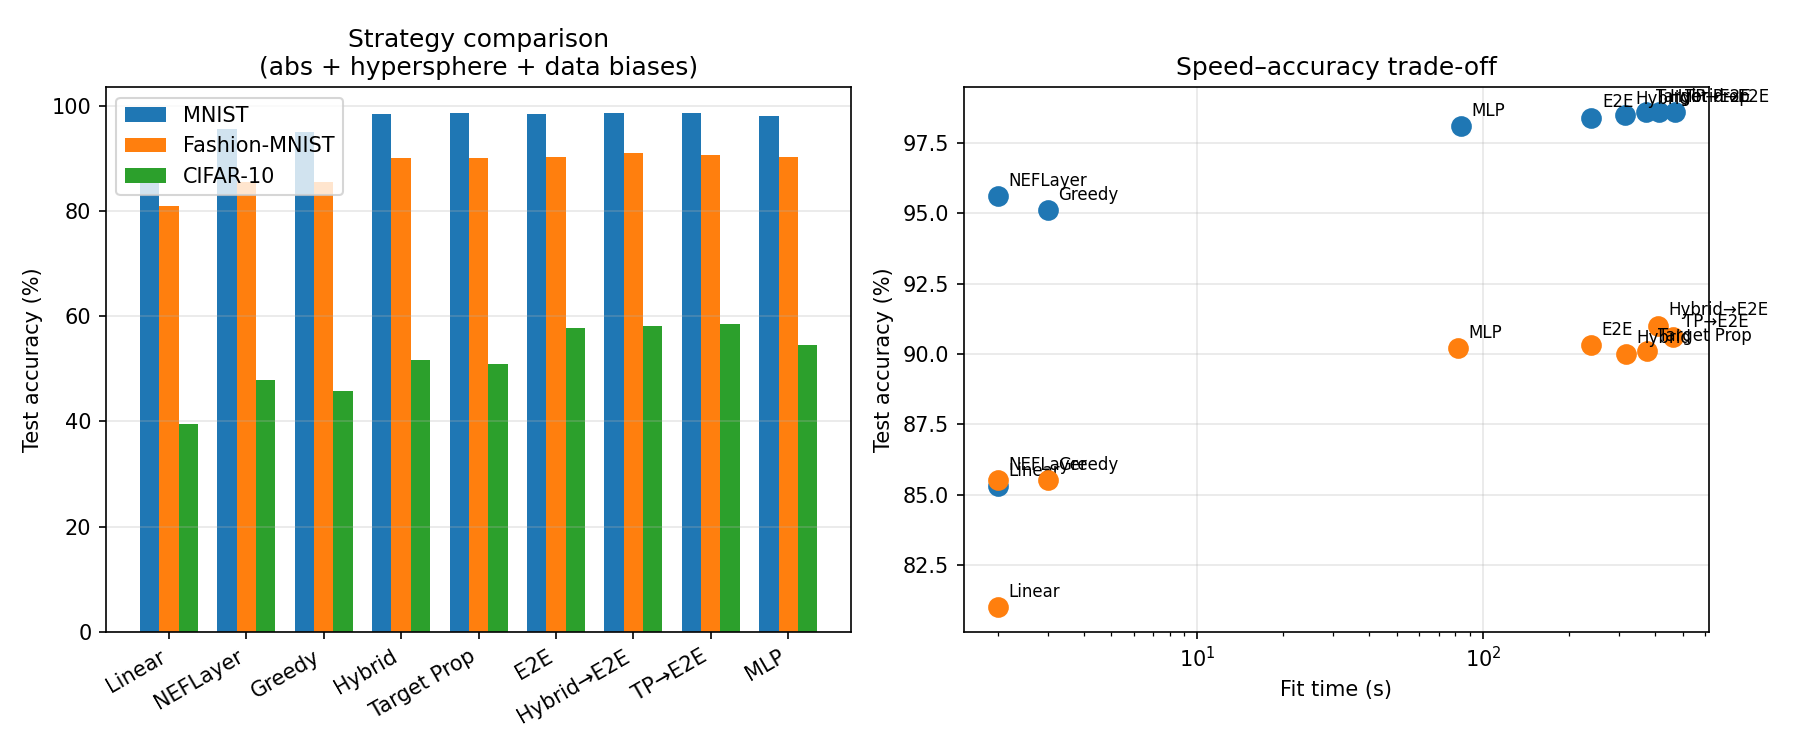
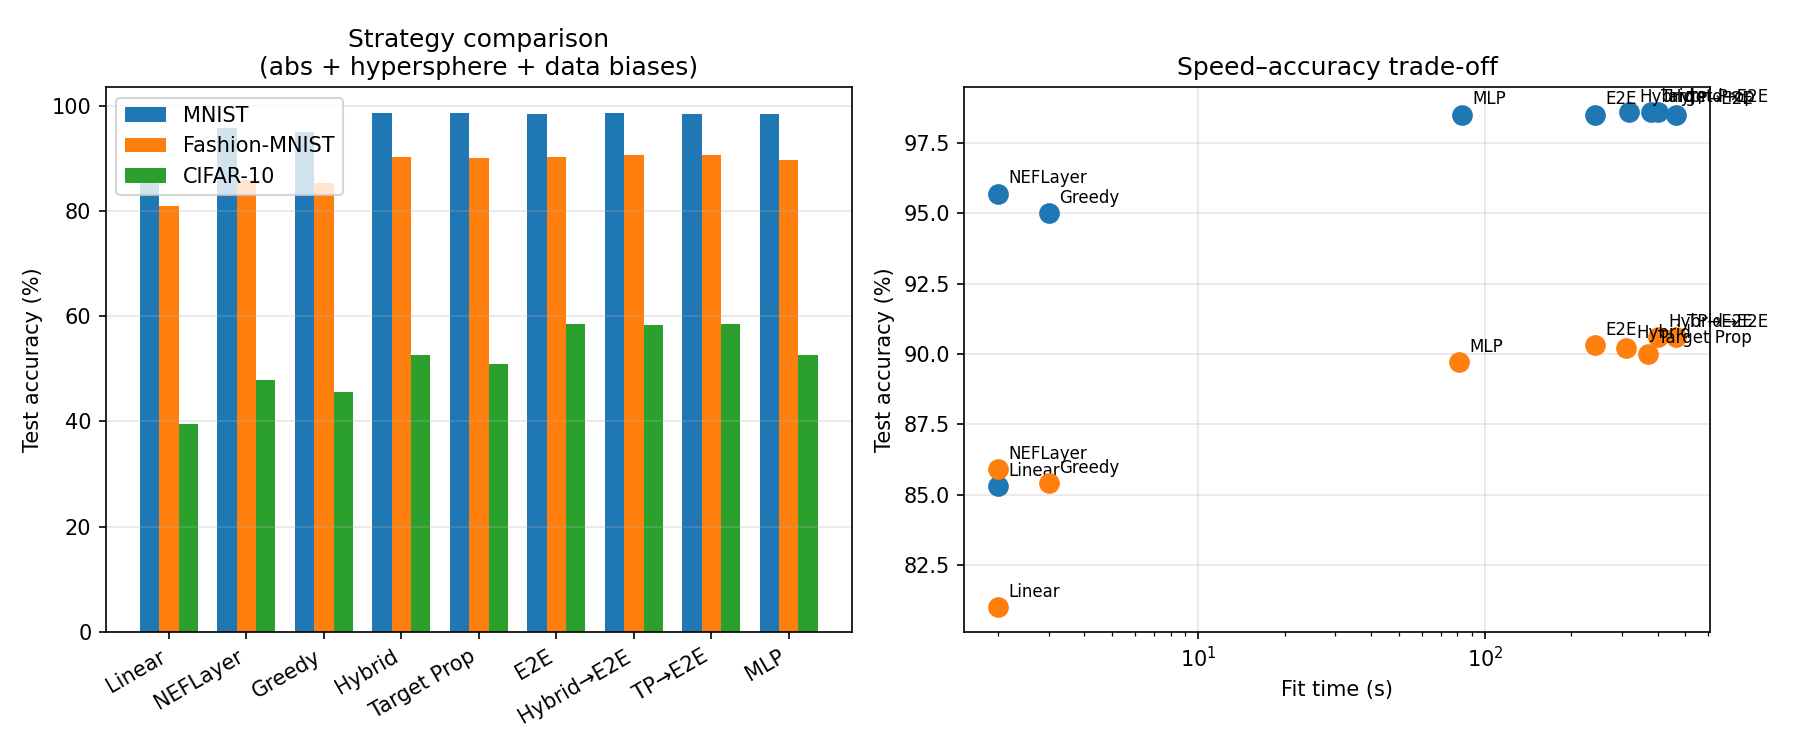
Refresh seeded feed-forward benchmarks

diff --git a/benchmarks/plot.py b/benchmarks/plot.py
@@ -45,14 +45,14 @@ STRATEGIES = [
     "MLP",
 ]
 MULTI = {
-    "MNIST": [85.3, 95.6, 95.1, 98.5, 98.6, 98.4, 98.6, 98.6, 98.1],
-    "Fashion-MNIST": [81.0, 85.5, 85.5, 90.0, 90.1, 90.3, 91.0, 90.6, 90.2],
-    "CIFAR-10": [39.6, 47.8, 45.8, 51.7, 51.0, 57.8, 58.1, 58.5, 54.6],
+    "MNIST": [85.3, 95.7, 95.0, 98.6, 98.6, 98.5, 98.6, 98.5, 98.5],
+    "Fashion-MNIST": [81.0, 85.9, 85.4, 90.2, 90.0, 90.3, 90.6, 90.6, 89.7],
+    "CIFAR-10": [39.6, 47.8, 45.6, 52.7, 51.0, 58.5, 58.4, 58.5, 52.7],
 }
 MULTI_TIME = {
-    "MNIST": [2, 2, 3, 315, 371, 240, 412, 470, 84],
-    "Fashion-MNIST": [2, 2, 3, 316, 376, 239, 410, 463, 82],
-    "CIFAR-10": [14, 3, 3, 343, 373, 319, 475, 497, 142],
+    "MNIST": [2, 2, 3, 318, 378, 241, 402, 464, 83],
+    "Fashion-MNIST": [2, 2, 3, 309, 369, 241, 401, 464, 81],
+    "CIFAR-10": [14, 3, 3, 332, 356, 315, 457, 480, 141],
 }
 
 # Multi-layer: activation effect (hybrid, hypersphere + data biases)

diff --git a/README.md b/README.md
@@ -203,20 +203,20 @@ the model generalises well, with test MSE within 1% of training MSE.
 | Model             | MNIST    | Fashion  | CIFAR-10 | Time (MNIST) |
 |-------------------|----------|----------|----------|--------------|
 | Linear baseline   | 85.3%    | 81.0%    | 39.6%    |     2s       |
-| NEFLayer          | 95.6%    | 85.5%    | 47.8%    |     2s       |
-| NEFNet-greedy     | 95.1%    | 85.5%    | 45.8%    |     3s       |
-| NEFNet-hybrid     | 98.5%    | 90.0%    | 51.7%    |   315s       |
-| NEFNet-target-prop| 98.6%    | 90.1%    | 51.0%    |   371s       |
-| NEFNet-e2e        | 98.4%    | 90.3%    | 57.8%    |   240s       |
-| NEFNet-hybrid→E2E |**98.6%** |**91.0%** | 58.1%    |   412s       |
-| NEFNet-TP→E2E     | 98.6%    | 90.6%    |**58.5%** |   470s       |
-| MLP (2×1000)      | 98.1%    | 90.2%    | 54.6%    |    84s       |
+| NEFLayer          | 95.7%    | 85.9%    | 47.8%    |     2s       |
+| NEFNet-greedy     | 95.0%    | 85.4%    | 45.6%    |     3s       |
+| NEFNet-hybrid     | 98.6%    | 90.2%    | 52.7%    |   318s       |
+| NEFNet-target-prop| 98.6%    | 90.1%    | 51.0%    |   378s       |
+| NEFNet-e2e        | 98.5%    | 90.3%    | 58.5%    |   241s       |
+| NEFNet-hybrid→E2E |**98.6%** |**90.6%** | 58.4%    |   402s       |
+| NEFNet-TP→E2E     | 98.5%    | 90.6%    |**58.5%** |   464s       |
+| MLP (2×1000)      | 98.5%    | 89.7%    | 52.7%    |    83s       |
 
 All multi-layer models use propagated data-driven biases: training data is
 forwarded through each layer, and the resulting activations are used as
 centers for the next layer's bias computation.  This is especially important
 for greedy, which has no gradient learning — propagated centers lifted
-greedy from 94.0% → 95.1% on MNIST and 84.0% → 85.5% on Fashion-MNIST.
+greedy from 94.0% → 95.0% on MNIST and 84.0% → 85.4% on Fashion-MNIST.
 
 The default hybrid configuration uses 50 iterations with α = 10⁻³ for the
 decoder solver.  These were found via a systematic sweep over iterations
@@ -236,10 +236,10 @@ encoder state, producing noisy gradients that destabilise encoder learning.
 At α = 10⁻⁵ results collapse entirely (96.4% MNIST, 32.7% CIFAR-10).
 
 **Warm-started E2E remains a strong option.**  `fit_target_prop_e2e`
-reaches 98.6% / 90.6% / 58.5% with a gentler `eta=0.01` TP warm start,
-keeping it competitive with `fit_hybrid_e2e` while still edging ahead on
-CIFAR-10.  The hybrid→E2E warm start keeps the best Fashion-MNIST number and
-a slight MNIST edge, so it remains the safest general-purpose choice overall.
+reaches 98.5% / 90.6% / 58.5% with a gentler `eta=0.01` TP warm start,
+keeping it competitive with `fit_hybrid_e2e`, which lands at
+98.6% / 90.6% / 58.4%.  The hybrid→E2E warm start keeps the slight
+MNIST/Fashion edge, while TP→E2E still edges ahead on CIFAR-10.
 
 **Plain target propagation benefits from a moderate fixed step.**
 `fit_target_prop` still avoids cross-layer backprop entirely: it solves
@@ -251,8 +251,12 @@ Strict target projection (`project_targets=True`) is still available for
 experiments, but a later seeded full plain-TP rerun with projection fell to
 98.3% / 88.4% / 48.9%, so projection remains opt-in.  Adaptive
 infeasible-target backoff (`max_infeasible_fraction=...`) also remains
-available for experiments, but the fixed defaults were more reliable on the
-current benchmark configuration.
+available for experiments, and the new `eta_schedule` /
+`hidden_max_infeasible_fraction` controls widen that experimental surface.
+However, representative `3k` / `1k` seeded slice searches still did not produce
+a clean across-seed replacement for the fixed plain-TP default: the best hidden
+feasibility budget (`0.01`) was essentially tied with the baseline on average,
+so the fixed defaults remain the published path.
 
 **Target propagation eta sweep** (historical broad sweep; 50 iterations,
 lr=10⁻³, normalised step):
@@ -449,7 +453,9 @@ slightly from 32.8% to 33.3%.  That makes predictive state targets the main
 recurrent TP gain, projected targets a smaller follow-on improvement, and
 auxiliary timestep labels an experiment worth keeping opt-in only.
 
-**Why abs fails for recurrence:**  In feedforward, abs doubles
+### Why abs fails for recurrence
+
+In feedforward, abs doubles
 representational capacity by responding to both directions.  In recurrent
 BPTT, abs has gradient sign(x) ∈ {−1, +1} at every neuron, meaning the
 recurrent Jacobian has no sparsity to damp gradient magnitudes.  Over 28
@@ -480,8 +486,8 @@ also save JSON / CSV outputs for reproducible reruns and future plot refreshes.
    random directions matters.
 
 2. **Single-layer NEF is remarkably effective but hits a ceiling.**  With
-   2000 neurons and a 2-second analytic solve, it reaches 95.6% on MNIST
-   and 85.5% on Fashion-MNIST — within 3% of a fully-trained MLP on
+   2000 neurons and a 2-second analytic solve, it reaches 95.7% on MNIST
+   and 85.9% on Fashion-MNIST — within 3% of a fully-trained MLP on
    MNIST.  Even
    with 30000 neurons and 394 seconds of compute (comparable to hybrid),
    single-layer tops out at 98.3% / 89.8% / 51.8% — learned features in
@@ -502,14 +508,14 @@ also save JSON / CSV outputs for reproducible reruns and future plot refreshes.
    MNIST).
 
 5. **Hybrid→E2E remains the best balanced feed-forward strategy.**  Running
-   hybrid then E2E reaches 98.6% / 91.0% / 58.1% — best on Fashion-MNIST,
-   tied for best on MNIST, and only 0.4 points behind TP→E2E on CIFAR-10.
-   The hybrid phase learns encoder orientations with analytic decoders; the
-   E2E phase unlocks full gradient training without giving back the strong
-   Fashion result.
+   hybrid then E2E reaches 98.6% / 90.6% / 58.4% — best on Fashion-MNIST,
+   tied for best on MNIST within rounding, and only 0.1 points behind
+   TP→E2E on CIFAR-10.  The hybrid phase learns encoder orientations with
+   analytic decoders; the E2E phase unlocks full gradient training without
+   giving back the strong Fashion result.
 
 6. **Hybrid alone remains a strong analytic-gradient compromise.**  With 50
-   iterations and α = 10⁻³, pure hybrid reaches 98.5% / 90.0% / 51.7%
+   iterations and α = 10⁻³, pure hybrid reaches 98.6% / 90.2% / 52.7%
    while preserving analytic decoders.  Iteration count dominates the
    other hybrid hyperparameters.
 
@@ -527,7 +533,8 @@ also save JSON / CSV outputs for reproducible reruns and future plot refreshes.
 9. **Propagated data-driven biases rescue greedy.**  Without them, greedy
    multi-layer was worse than single-layer (94.0% vs 95.5% MNIST).
    Forwarding training data through each layer and using activations as
-   centers for the next layer's biases narrows the gap to 0.5%, though
+   centers for the next layer's biases narrows the current seeded gap to
+   0.7%, though
    greedy still cannot match gradient-trained strategies.
 
 10. **Per-neuron gain U(0.5, 2.0) is the default.**  In canonical NEF,
@@ -540,14 +547,14 @@ also save JSON / CSV outputs for reproducible reruns and future plot refreshes.
     giving the population a richer representation from the start.
 
 11. **Target propagation stays competitive without cross-layer backprop.**
-    Using NEF representational decoders as analytical inverse models and a
-    normalised activity-space step, plain TP reaches 98.6% / 90.1% / 51.0%
-    using only single-layer gradients.  A short TP→E2E fine-tune pushes
-    that to 98.6% / 90.6% / 58.5%.  The current seeded defaults now split
-    `eta` by strategy — `0.03` for plain TP, `0.01` for TP→E2E — because a
-    single shared step was not the best trade-off.  Strict target
-    projection remains an opt-in experimental control rather than the
-    default path.
+   Using NEF representational decoders as analytical inverse models and a
+   normalised activity-space step, plain TP reaches 98.6% / 90.1% / 51.0%
+   using only single-layer gradients.  A short TP→E2E fine-tune pushes
+   that to 98.5% / 90.6% / 58.5%.  The current seeded defaults now split
+   `eta` by strategy — `0.03` for plain TP, `0.01` for TP→E2E — because a
+   single shared step was not the best trade-off.  Strict target
+   projection plus the newer eta-schedule / hidden-feasibility controls
+   remain opt-in experimental paths rather than the default one.
 
 12. **Recurrent warm starts are now real full-scale results, not just
     spot-check curiosities.**  On seeded full row-wise sMNIST reruns, recurrent

diff --git a/docs/analytical_target_propagation.md b/docs/analytical_target_propagation.md
@@ -138,6 +138,12 @@ Strict activity projection (`project_targets=True`) and adaptive step backoff
 infeasible targets, but the current feed-forward benchmark reruns preferred the
 fixed defaults above.
 
+Feed-forward TP now also exposes experimental `eta_schedule`,
+`eta_final_fraction`, and `hidden_max_infeasible_fraction` controls.  Seeded
+`3k` / `1k` slice searches did not produce a clean across-seed replacement for
+the fixed plain-TP default, though a small hidden-target feasibility budget was
+competitive enough to keep as an opt-in experiment.
+
 Recurrent TP now exposes the same `project_targets` control plus experimental
 `state_target` and `auxiliary_weight` knobs.  On the current row-wise sMNIST
 slices, predictive decoded-state targets were the main win, auxiliary timestep
